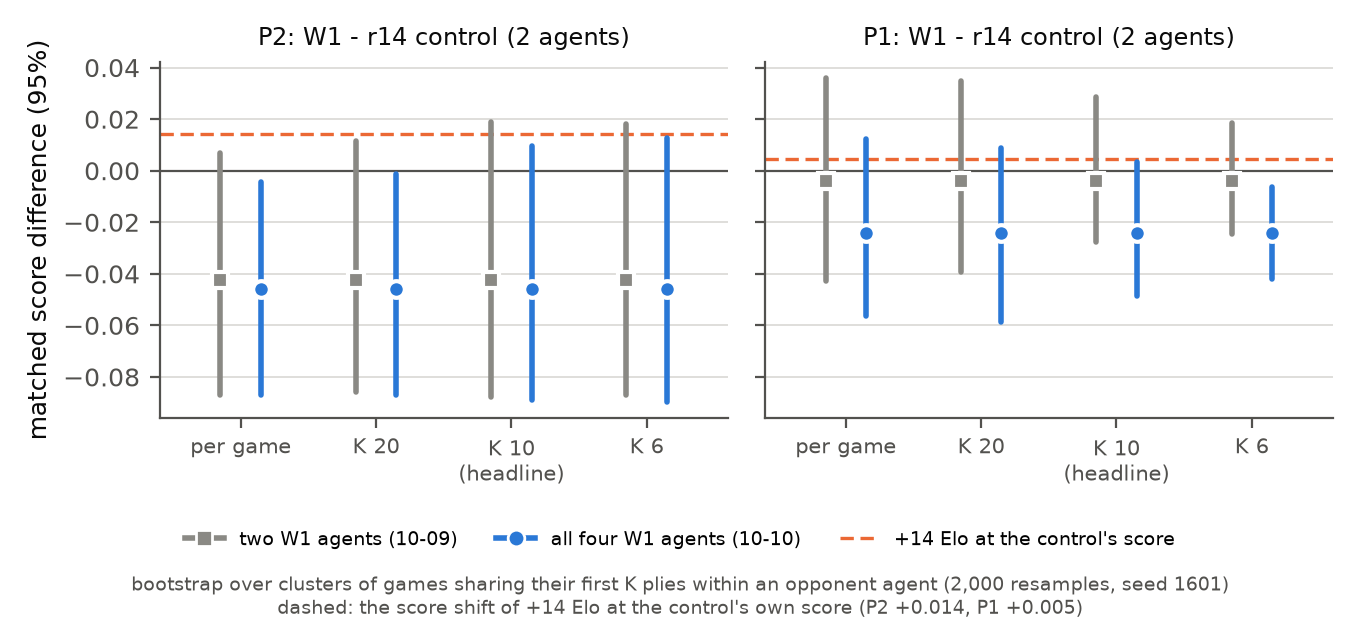
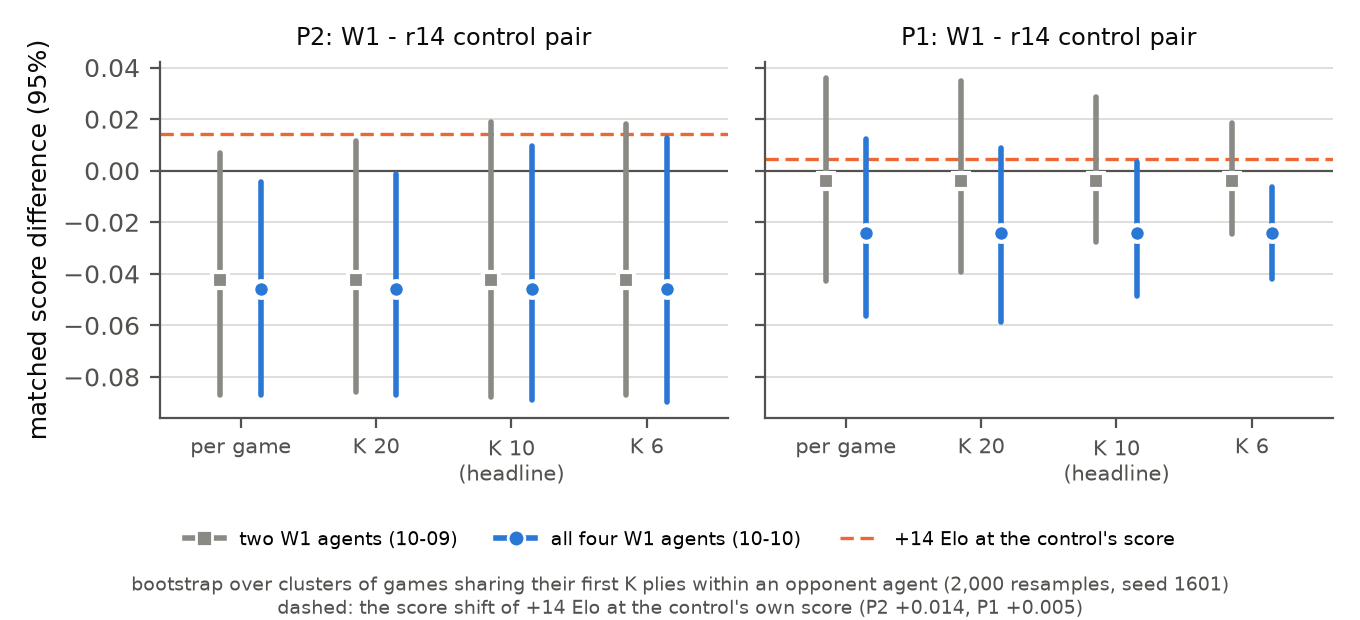
Correct the round 16 report
- Ship section, runtime B, limitations and Next: in the past tense. At
  ship time the packer refused an empty book and cg-native-check stopped
  at book=FAILED; this branch then merged runtime B (c122723), made the
  empty book the supported no-book configuration (22fae39, 9724033) and
  documented the Dell route (02249b8). The committed launcher is the
  77,297-unit rebuild, not the live dd33df97 byte for byte. The ship-route
  limitation and the "merge runtime B" Next item are dropped.
- Ladder drift: the W1 W1 ctl ctl W1 W1 order brackets the control, so a
  linear drift largely cancels; W1's mean placement time is about 35
  minutes later than the control's.
- The opponent pattern is described, not claimed: no heterogeneity test,
  control cells of 3-9 games.
- Table 5: its bounds are cluster_w1.py's recorded run, which is not
  reproducible run to run (opponents from a set under string-hash
  randomization); 13 fixed-hash-seed reruns give the ranges, all P2 upper
  ends below +0.014. The deterministic rerun's P1 lower end is -0.048.
- B16's upper end is about +5; C3 by subtraction against FINDINGS A18's
  roughly +9; throughput is for 20 ms games (T3 about 312 games/min);
  tools/sprt_cluster.py is untracked.
- Paths: body paths relative to r16/ (../ROUND16_PLAN.md), Sources
  relative to datasets/nnue2/; the README and FINDINGS timestamps as
  recorded; the WIDEN2 scouts in Next and in the first-turn limitation.
[…]

Changed region(s): [[0.6176, 0.0306, 0.8956, 0.0919], [0.1853, 0.0306, 0.4632, 0.0919]]

diff --git a/documentation/reports/round16/REPORT.md b/documentation/reports/round16/REPORT.md
@@ -2,13 +2,16 @@
 
 > **About this report.** It was written for the repository on 2026-10-10 from the round's records. Those records,
 > including nets, game files, logs, plans and scripts, live in the local experiment archive `datasets/nnue2/`, which
-> is git-ignored and not part of this repository. Paths below are relative to that archive's `r16/` directory unless
-> they say otherwise. The figures in [`fig/`](fig/) were drawn with matplotlib from the raw result files: the
-> tests' `summary.json`, `results/losses.jsonl` and the CodinGame ladder replays.
+> is git-ignored and not part of this repository. Paths in the body are relative to that archive's `r16/` directory
+> unless they say otherwise, so the round's draft plan is `../ROUND16_PLAN.md`. The Sources section gives its paths
+> relative to `datasets/nnue2/` itself. The figures in [`fig/`](fig/) were drawn with matplotlib by
+> `report/make_figs_v2.py` from the raw result files: the tests' `summary.json`, `results/losses.jsonl` and the
+> CodinGame ladder replays.
 
 **Status (2026-10-10, PDT): final.** Round 16 ran from 10:45 on 2026-10-08 (the first B16 training run) to the
-four-agent ladder reading at 01:40 on 2026-10-10. The widened net W1 (`r16_x128_l2400_s1601_rs`) is live on
-CodinGame without an opening book.
+four-agent ladder reading early on 2026-10-10: the last agent placed at 01:32, and FINDINGS A19 was updated by
+01:40. Read-only scouts for a still wider encoder ran alongside, from 00:48 to 01:55 (section 6). The widened net W1
+(`r16_x128_l2400_s1601_rs`) is live on CodinGame without an opening book.
 
 ## Abstract
 
@@ -50,7 +53,8 @@ widened net's speed gate, was re-read by a dated ruling after its measurements a
 - **The offline loss did not order these changes.** Contrasts with offline gains of +13 to +14 per mille played
   anywhere from −11 to +15 Elo ([Figure 2](fig/fig2_offline_vs_play.png)).
 - **The ladder cannot resolve the gain, and it does not show it.** Four W1 agents were compared with two r14 agents
-  placed between them in time (order W1 W1 r14 r14 W1 W1, so a linear drift of the field cancels).
+  placed between them in time (order W1 W1 r14 r14 W1 W1). This brackets the control in time, so a linear drift of
+  the field largely cancels.
   - W1's second-player (P2) score differed by −0.046, with a cluster-robust 95% interval of [−0.090, +0.010]. Its
     first-player (P1) score differed by −0.024 ([−0.047, +0.003]).
   - Both intervals hold 0 at the clustering chosen before the last two agents played, so W1 is not shown to be
@@ -97,7 +101,7 @@ direction: it ran 1.2% faster per node.
 
 **The rule this round follows.** The owner's rule for "nimble rounds" (10-05) is frozen data, one idea per short
 fine-tune, judgement by games and never by offline loss, and a one-line pre-registered rule per test. The draft plan
-`ROUND16_PLAN.md` listed ten candidate tests, R16-0 to R16-9. Four ran: R16-0 (continuation), R16-1 (EMA), R16-5
+`../ROUND16_PLAN.md` listed ten candidate tests, R16-0 to R16-9. Four ran: R16-0 (continuation), R16-1 (EMA), R16-5
 (macro context, on the owner's request of 10-08, "Pls see if u can get halfkp style to gain") and R16-2 (the widened
 encoder, on the owner's request of 10-09: "let's see if you can get the bigger encoder as a gainer. So train it, sprt
 it etc."). A featurization scout, analysis only, ran between R16-5 and R16-2. R16-3, R16-4 and R16-6 to R16-9 did not
@@ -147,7 +151,8 @@ end.
 
 ### 2.2 Runtime and engines
 
-The evaluator is the pattern-generator NNUE (see `documentation/nnue_training_and_implementation.md`).
+The evaluator is the pattern-generator NNUE (see
+[`documentation/nnue_training_and_implementation.md`](../../nnue_training_and_implementation.md)).
 
 **Where the encoder runs.** The encoder runs only at start-up, when it is baked into per-pattern tables. A wider
 encoder therefore lengthens the bake but leaves the per-node work unchanged.
@@ -160,10 +165,11 @@ first A/A smoke, which used the scaling study's r14 build on the older r13 runti
   and R16-5. They were compiled with g++ 11.4 using CodinGame's command line on the ThinkPad.
 - **`claude/macro-ctx-runtime` f357a24** (local only) is the macro-context port; it built the A2 and A3 engines.
   Context rows fold into the projection, and deciding moves re-context their boards incrementally.
-- **Runtime B, `claude/enc128-runtime` 84db7aa** (local only; commits a2672c9 and 84db7aa on adda324), lets the bake
-  read any encoder width from the net header. Against adda324 it changes six files: a Makefile target, the
-  regenerated `cg_input.cpp` (+286 UTF-16 units), the encoder-only hunks of `nnue_b64.hpp`, the widths line of r14's
-  header, a new `nnue_parity.cpp`, and the generic emitter. The search code and `eval_avx` are unchanged.
+- **Runtime B, `claude/enc128-runtime` 84db7aa** (commits a2672c9 and 84db7aa on adda324; a local branch while the
+  round ran, merged into this branch on 10-10 as c122723) lets the bake read any encoder width from the net header.
+  Against adda324 it changes six files: a Makefile target, the regenerated `cg_input.cpp` (+286 UTF-16 units), the
+  encoder-only hunks of `nnue_b64.hpp`, the widths line of r14's header, a new `nnue_parity.cpp`, and the generic
+  emitter. The search code and `eval_avx` are unchanged.
   - On runtime B, r14 rebuilds bit-identically: payload cde8c610, fingerprint 9446452298351114632, all selfchecks
     and bench 12 499aa1530ed872d3 / 30,721,792 on the desktop and the Dell.
   - Every R16-2 engine was built on runtime B: Dell binaries with g++ 13.3 and CodinGame's command line, desktop
@@ -198,8 +204,8 @@ lines remain.
 
 The CGC budgets are the calibrated C++ budgets (desktop 49 ms with 7 threads, Dell 62 ms with 3 threads) times 1.075,
 the native build's factor. They were not re-probed for `cg_nobook`. Both hosts' pairs feed one pooled result, so
-that result mixes two compute levels; per-host Elo is reported but not judged. Throughput was about 850-1,015 games
-per minute on the laptops and 1,240-1,285 on the desktop and the Dell.
+that result mixes two compute levels; per-host Elo is reported but not judged. At 20 ms, throughput was about 850-1,015
+games per minute on the laptops and 1,240-1,285 on the desktop and the Dell; T3 at CG compute ran at about 312.
 
 ## 3. Pre-registration and deviations
 
@@ -207,7 +213,7 @@ per minute on the laptops and 1,240-1,285 on the desktop and the Dell.
 
 | Plan | Covers | Written / frozen | What it fixes |
 | --- | --- | --- | --- |
-| `ROUND16_PLAN.md` §3 | R16-0, R16-1 | draft of 10-08, before both runs (the file was last edited at 12:01, after them, to add a status line) | one-line rules: B16 vs r14; EMA vs final weights, both GSPRT [0, +5] |
+| `../ROUND16_PLAN.md` §3 | R16-0, R16-1 | draft of 10-08, before both runs (the file was last edited at 12:01, after them, to add a status line) | one-line rules: B16 vs r14; EMA vs final weights, both GSPRT [0, +5] |
 | `MACRO_PLAN.md` | R16-5: A1, A2, A3, C3 | written 00:35 on 10-09, last modified 00:37, before any R16-5 training or game | attempts and rules; speed gate G2 (a mode with more than 10% zero-context overhead is not played); order rule L; build gates G1-G6; openings |
 | `WIDEN_PLAN.md` (sha256 591560bd…) | R16-2: W1 | 14:40-14:56 on 10-09 (file modified 14:55), before W1's launch at 14:58; frozen from T1's first game | gates G1-G6, smoke S0, T1 (decides), T3 (CGC veto), T2 (attribution, read by a fixed table), no fallback arm |
 
@@ -226,7 +232,7 @@ per minute on the laptops and 1,240-1,285 on the desktop and the Dell.
 | # | When | Plan | What happened | Bearing on inference |
 | --- | --- | --- | --- | --- |
 | 1 | 10-08 11:53 | R16-0 runs to a decision or the 30,000 cap (the cap counts as FAIL) | The owner stopped it at 21,028 games, LLR −1.09 | No decision. The interval [−1.0, +5.0] is reported as a stopped estimate |
-| 2 | 10-08 | ROUND16_PLAN: a fresh seed and a fresh opening range per test, and `tools/sprt_cluster.py` | Seed 1601 everywhere, to pair each arm with its control; per-test reshuffles with exclusion; the pooled referee driver | Contrasts are one-factor, but each arm is a single seed (σ_net about 0, upper about 2; E3). Openings are disjoint within the round only |
+| 2 | 10-08 | ROUND16_PLAN: a fresh seed and a fresh opening range per test, and `tools/sprt_cluster.py` (a pooled-SPRT script in the owner's main checkout, not tracked in this repository) | Seed 1601 everywhere, to pair each arm with its control; per-test reshuffles with exclusion; the pooled referee driver | Contrasts are one-factor, but each arm is a single seed (σ_net about 0, upper about 2; E3). Openings are disjoint within the round only |
 | 3 | 10-09 01:30-02:45 | MACRO_PLAN §2.4 runtime spec | Five implementation changes to the port (no refresh fallback, payload end check, exporter threshold, header comment, plain paste size) | None on the results: exact integer parity held (9 × 20,000 positions, 0 mismatches) |
 | 4 | 10-09 14:40 | ROUND16_PLAN R16-2: enc128 at 600M first, then 2.4G on a fail | One 2.4G arm with its matched control C3 | Logged in WIDEN_PLAN before any training |
 | 5 | 10-09 14:40 | ROUND16_PLAN: games on the laptops, engines from g++-11 | Desktop + Dell (owner: "Why only run on dell? You also have the desktop to use"); Dell engines from g++ 13.3, because the ThinkPad was away | Both engines in every pair come from the same compiler on the same host |
@@ -273,9 +279,9 @@ plays its final weights.
 ### 4.2 R16-0: the plain continuation B16 (FINDINGS L13)
 
 B16 against r14 read +1.98 ± 3.02 at 21,028 games, with LLR −1.09, when the owner stopped the test about 9 minutes
-before the cap. There is no decision under the rule. The interval rules out a loss of more than about 1 Elo and does
-not reach +5. The test was on course for the cap, which counts as a FAIL. This matches round 14's few-Elo gains from
-continuation (L13). r14 stayed the comparator.
+before the cap. There is no decision under the rule. The interval rules out a loss of more than about 1 Elo, and its
+upper end is about +5. The test was on course for the cap, which counts as a FAIL. This matches round 14's few-Elo
+gains from continuation (L13). r14 stayed the comparator.
 
 ### 4.3 R16-5: the macro context (FINDINGS A16, confirmed)
 
@@ -398,8 +404,9 @@ at a fixed 20 ms per move on the machines where the cost arises, so any real per
 - Per host: desktop +3.80 ± 5.00, Dell +7.42 ± 7.20.
 - Reading under the plan's fixed table (T1 H1, T2 H1): **"the width is the gainer"**. H1 here means better than 0
   and consistent with +5, not at least +5.
-- C3 against r14 was never played. Subtracting T2 from T1 puts C3 at about +10 over r14. That figure comes from two
-  stopped estimates, so it is not a test.
+- C3 against r14 was never played. Subtracting T2 from T1 (15.20 − 5.12) puts C3 at about +10 over r14. FINDINGS
+  A18 says roughly +9, which is what T3's +13.82 gives in T1's place (+8.7). Both figures rest on stopped estimates,
+  and the second also mixes two compute levels, so neither is a test.
 
 **Hygiene and the Dell stall.**
 
@@ -433,7 +440,8 @@ became −1.35, +15.20 and −11.38 Elo. The widening's +8.8‰ over C3 played +
 no P2 lines. The hard-coded 4 4 opener stays.
 
 **The toolchain route.** The repository's native route needs clang 23.1.2 and g++ 11.4 headers, and those existed
-only on the ThinkPad. On the Dell a user-space route was put together:
+only on the ThinkPad. On the Dell a user-space route was put together, which is now documented in section 3 of
+[`documentation/native_build.md`](../../native_build.md):
 
 - LLVM 23.1.2 and g++ 11.4 headers, under `~/cgbin`;
 - an ICU-70 forwarding shim, so that lld starts;
@@ -444,16 +452,21 @@ The route was validated first by rebuilding the live r14 launcher from adda324. 
 one (d6d902e2…), with identical selfchecks. With the wrapper, the binary needs at most GLIBC_2.34; without it, it
 needs GLIBC_2.38, which CodinGame cannot load.
 
-**No book.** Runtime B's real `play_book.hpp` is linked with a zero-entry data header (0 entries, 0 bytes,
-fingerprint 0). `pb_init` rejects that payload at its fingerprint check, so `pb_lookup` never returns a move. Two
-pieces of the repository's tooling cannot handle this case:
+**No book.** The shipped launcher links runtime B's real `play_book.hpp` with a zero-entry data header (0 entries,
+0 bytes, fingerprint 0). `pb_init` rejects that payload at its fingerprint check, so `pb_lookup` never returns a
+move. At ship time two pieces of the repository's tooling could not handle this case:
 
-- W1's packer refuses an empty text book.
-- The stock `make cg-native-check` stops at its second step, because the launcher's selfcheck prints
-  `book=FAILED entries=0` and exits 1.
+- W1's packer refused an empty text book.
+- The stock `make cg-native-check` stopped at its second step, because the launcher's selfcheck printed
+  `book=FAILED entries=0` and exited 1.
 
-The ship therefore used no-book copies of those checks. Making a no-book build pass the repository's own checks is
-part of merging runtime B.
+The ship therefore used no-book copies of those checks. On 10-10 this branch then merged runtime B (c122723) and made
+an empty text book the supported no-book configuration (22fae39). The packer now writes the no-book header for it,
+`pb_init` returns at once, and `cg_selfcheck` prints `book=none` and exits 0, so `make cg-native-check` can pass;
+9724033 lets `play_book_match` pass without a book. The launcher committed on this branch was rebuilt from the merged
+tree on the same Dell route: 77,297 UTF-16 units (`ef1a2631…`), with a 282,056-byte binary. It is not the live file
+byte for byte, because the compiler now drops the book decoder. At all eight selfcheck settings it gives the live
+launcher's node counts and checksums; only the book line differs.
 
 **The shipped files.**
 
@@ -485,8 +498,10 @@ problems on our side in 1,040 games (four agents).
 **Submissions.** Six agents placed in one night, and each played 260 games. W1 is the shipped bookless launcher
 (dd33df97…). The control is the r14 launcher that was live before W1, without a P2 book (d6d902e2…), resubmitted
 unchanged. The control's two agents sit between W1's two pairs in time, so a drift of the field that is linear in
-time cancels from the comparison. The ladder scores themselves are not compared, because one placement's score has an
-SD of about 0.36 (FINDINGS A19).
+time largely cancels from the comparison. It would cancel exactly only if both arms had the same mean time. Taking
+each placement's midpoint, from submission to placement, W1's four average about 23:34 and the control's two about
+22:59: W1's mean is about 35 minutes later, because of the hour's gap before the resubmission. The ladder scores
+themselves are not compared, because one placement's score has an SD of about 0.36 (FINDINGS A19).
 
 **Table 4. The ladder agents.** "Placed" is the time the placement finished.
 
@@ -518,11 +533,18 @@ agents on both sides:
   00:05-00:35 on 10-10: the gain is below the ladder's resolution, and W1 is not shown to be worse. W1 was then
   resubmitted twice.
 
-**Four W1 agents (10-10, 01:40).** With the restored pair, the comparison covers 14 opponent agents: 393 W1 games
-against 217 control games on P2. The 10-ply cluster definition is the one chosen at the 00:05 correction, before the
-restored agents had played.
+**Four W1 agents (10-10, after the last placement at 01:32).** With the restored pair, the comparison covers 14
+opponent agents: 393 W1 games against 217 control games on P2. The 10-ply cluster definition is the one chosen at
+the 00:05 correction, before the restored agents had played.
 
-**Table 5. W1 minus the control, four W1 agents against two control agents.** Bootstrap SEs over 2,000 resamples.
+**Table 5. W1 minus the control, four W1 agents against two control agents.** Bootstrap SEs over 2,000 resamples,
+as recorded on 10-10 (`README.md`, FINDINGS A19) by `report/cluster_w1.py` with Random(1601). That script takes its
+opponents from a Python set, so string-hash randomization changes which opponent each bootstrap draw goes to, and
+its bounds carry Monte Carlo noise of a few thousandths that does not reproduce run to run. In 13 reruns under fixed
+hash seeds (computed for this report, `report/cluster_hashseed/`), the P2 10-ply interval's lower end ran from −0.093
+to −0.087 and its upper end from +0.006 to +0.010, with SE 0.024-0.025; for P1 the ends ran from −0.049 to −0.046
+and from +0.001 to +0.004, with SE 0.012-0.013. The per-game SEs were 0.021-0.022 (P2) and 0.017-0.018 (P1). Every
+P2 upper end stayed below +0.014.
 
 | Seat | Difference | SE, each game its own cluster | SE, 10-ply clusters | 95%, 10-ply clusters |
 | --- | ---: | ---: | ---: | --- |
@@ -530,7 +552,8 @@ restored agents had played.
 | P1 | −0.024 | 0.018 | 0.013 | **[−0.047, +0.003]** |
 
 Both seats together read −0.037 (SE 0.028, from the per-opponent variances). The deterministic rerun for Figure 3
-gives SE 0.025 and [−0.089, +0.009] for P2, and SE 0.013 and [−0.049, +0.003] for P1.
+(`report/make_figs_v2.py`, which sorts the opponents and the clusters) gives per-game SEs of 0.022 (P2) and 0.017
+(P1). At 10-ply clusters it gives SE 0.025 and [−0.089, +0.009] for P2, and SE 0.013 and [−0.048, +0.003] for P1.
 
 **What the four agents show.**
 
@@ -541,9 +564,11 @@ gives SE 0.025 and [−0.089, +0.009] for P2, and SE 0.013 and [−0.049, +0.003
 - **Transfer to P2 not shown.** The P2 interval's upper end, +0.010, is now below +0.014, the shift that a +14 Elo
   gain would give at the control's P2 score of 0.225. P1's upper end, +0.003, is likewise just below its +0.005. So
   the self-play gain is not shown to carry over to W1's P2 games against this field.
-- **Opponent-specific.** The P2 difference is concentrated in a few opponents (Table 6). W1 scored worse than the
-  control against morph, RoboStac, karliso and Babebibobu, and better against MrSubZero, AllanB, Fancheng, Daporan and
-  Apostolique. Several of these cells hold fewer than ten control games.
+- **Concentrated in a few opponents.** Most of the P2 difference comes from a few opponents (Table 6). W1 scored
+  worse than the control against morph, RoboStac, karliso and Babebibobu, and better against MrSubZero, AllanB,
+  Fancheng, Daporan and Apostolique. No heterogeneity test was run, and several control cells are small (morph 9
+  games, Fancheng 5, Angecide 3, YurkovAS 3). So this describes where the difference sits; it does not show that the
+  effect differs by opponent.
 - **Hygiene.** W1 had 0 problems on our side in 1,040 games. The control had 2 timeouts of its own in 520.
 
 **Table 6. P2 results per opponent agent, four W1 agents against the control.** Mean result (games).
@@ -575,9 +600,9 @@ FINDINGS X1 already recorded that self-play gains of +9 to +20 Elo do not show o
 **Figure 3.** W1's matched score difference from the r14 control pair, per seat, with bootstrap 95% intervals at four
 cluster definitions. Grey squares use the first two W1 agents (the 10-09 reading), blue circles all four. K 10 is
 the headline definition. The intervals were recomputed here from the replays with a fixed resampling order (seed
-1601). The dashed line is the shift that a +14 Elo gain would produce at the control's own score. For P1 the
-intervals narrow as the clusters coarsen, which shared openings alone would not do, so the P1 cluster intervals are
-less trustworthy than the P2 ones; only the coarsest P1 interval (K 6) excludes 0.
+1601; `report/make_figs_v2.py`). The dashed line is the shift that a +14 Elo gain would produce at the control's own
+score. For P1 the intervals narrow as the clusters coarsen, which shared openings alone would not do, so the P1
+cluster intervals are less trustworthy than the P2 ones; only the coarsest P1 interval (K 6) excludes 0.
 
 **The reading.** The ladder cannot resolve W1's self-play gain. The difference is below the ladder's resolution, and
 W1 is not shown to be worse. With four agents the ladder also does not show the gain transferring to the second
@@ -605,12 +630,12 @@ strength. W1 is the live build.
   offline mode, never played.
 - **The ladder test is weak.** It has four W1 agents and two control agents in one night, and line diversity that
   differs between the arms for reasons not explained. Its verdict depends on the cluster definition: the per-game P2
-  interval excludes 0, the 10-ply one does not. Its power for the expected effect is about 14%.
-- **The ship route is outside the repository.** The ship toolchain is a user-space route on the Dell, validated by one
-  byte-identical rebuild, not the repository's documented route. The no-book configuration does not yet pass the
-  stock checks.
+  interval excludes 0, the 10-ply one does not. Its bootstrap bounds move by a few thousandths between reruns. Its
+  power for the expected effect is about 14%.
 - **Less first-turn margin.** The first turn has less margin than r14's: about 415 ms on the Dell, projected to
-  550-600 ms on CodinGame.
+  550-600 ms on CodinGame. A fast-bake prototype from the WIDEN2 scouts (`README.md`, 10-10 00:48-01:55) cuts W1's
+  Dell first turn from 417 to 222 ms (median of 24 cold spawns on CPU 3) with byte-identical tables, but it has not
+  been through the full G3 set and is not shipped.
 
 ## 6. Conclusions
 
@@ -623,23 +648,31 @@ strength. W1 is the live build.
    Elo.
 4. **The ladder cannot certify Elo changes in the teens.** With four W1 agents against two control agents, W1 is not
    shown to be worse, but its P2 interval ends below the expected +0.014, so the gain's transfer to the second
-   player's ladder games is not shown, and the difference is opponent-specific. The self-play tests are the
-   evidence. A lower-noise transfer check, if one is wanted, would be position-level (W1 against r14 moves on
-   positions from our ladder games, judged by deep search) or games against a non-sibling engine.
+   player's ladder games is not shown. The difference looks concentrated in a few opponents, though no
+   heterogeneity test was run. The self-play tests are the evidence. A lower-noise transfer check, if one is wanted,
+   would be position-level (W1 against r14 moves on positions from our ladder games, judged by deep search) or games
+   against a non-sibling engine.
 5. **Next.** Open items:
    - the planned search-constant SPSA (ProbCut's constants are tuned to the net's eval scale) on W1;
-   - merging runtime B with a supported no-book configuration;
+   - an encoder wider than 128. Read-only scouts on 10-10 (00:48-01:55) sized enc160 to enc256, and the draft plan
+     `WIDEN2_PLAN.md` followed. It is not approved, and no net has been trained or played for it (the scouts' only
+     GPU work was seven short timing runs). It recommends enc192 with W1 as the matched control, a GSPRT of [0, +3],
+     and two runtime changes: a fast bake and a raw-byte native payload. The fast-bake prototype alone cuts W1's
+     Dell first turn from 417 to 222 ms with byte-identical tables;
    - the plan's untested ideas, if wanted: e2b share, wider head, output buckets, λ jitter, 300M length.
 
 ## Sources
 
-The paths are in the local experiment archive `datasets/nnue2/`, which is not in this repository.
+The paths in this section are relative to the local experiment archive `datasets/nnue2/`, which is not in this
+repository.
 
 - **Round log and plans:**
-  - `r16/README.md`, every dated entry from 2026-10-08 10:45 to the four-agent ladder entry of 2026-10-10 01:40;
+  - `r16/README.md`, every dated entry from 2026-10-08 10:45 to the 2026-10-10 00:05-00:35 entry, whose last bullets
+    record the four-agent ladder result, and the 00:48-01:55 entry on the WIDEN2 scouts;
   - `ROUND16_PLAN.md`;
   - `r16/MACRO_PLAN.md`;
   - `r16/WIDEN_PLAN.md`;
+  - `r16/WIDEN2_PLAN.md` (a draft, not approved);
   - `r16/feat_scratch/FEATURIZATION_SCOUT.md`.
 - **Games:** `r16/gsprt/{aa_smoke, r16_1_ema, r16_0_b16, r16_5b_mcj, r16_5c_mcj_l2400, aa2_smoke, r16_2t1_x128_r14,
   r16_2t3_x128_cgc, r16_2t2_x128_c3}/` (`summary.json`, `records_*.jsonl`, `hosts/`); `r16/openings/`.
@@ -654,11 +687,15 @@ The paths are in the local experiment archive `datasets/nnue2/`, which is not in
   - `cg/ladder/prep/r15/ana_w1nobook_matched.out`, `ana_w1nobook_vs_ctl.out` (two W1 agents) and
     `ana_w1x4_vs_ctl.out` (four);
   - the watcher logs and health checks `cg/ladder/prep/r15/{watch, check}_{w1nobook, ctlW1, w1nobookR}.*`;
-  - the replays under `cg/ladder/prep/games/`.
-  The matched-score and cluster-bootstrap scripts (`matched_w1c.py`, `cluster_w1.py`) and the figure script were
-  kept with the session's working files, not in the archive.
-- **Cross-round evidence:** `FINDINGS.md` entries A16, A17, A18, A19 (as updated at 01:40 on 10-10), L13 and H13,
-  with A14, E3, E6, E8, N8, O15 and X1 for context.
+  - the replays under `cg/ladder/prep/games/`;
+  - the scripts, copied into the archive on 10-10 from the session's working files: `r16/report/matched_w1.py`,
+    `matched_w1b.py` and `matched_w1c.py` (the matched scores; they wrote the three `.out` files above, in that
+    order) and `cluster_w1.py` (the cluster bootstrap of Table 5 and of the 10-09 reading), with its 13
+    fixed-hash-seed reruns in `r16/report/cluster_hashseed/`.
+- **Figures and totals:** `r16/report/make_figs_v2.py`, which draws `fig/` and writes `r16/report/totals_v2.json`
+  (the game totals, the training minutes and rows/s, and the deterministic ladder rerun).
+- **Cross-round evidence:** `FINDINGS.md` entries A16, A17, A18, A19 (its four-agent update, labelled 10-10 01:32
+  in the entry and 01:40 in the changelog), L13 and H13, with A14, E3, E6, E8, N8, O15 and X1 for context.
 - **Related reports in this repository:** [round 14](../round14/REPORT.md) and [the scaling study](../scaling_study/REPORT.md).
 
 ## Appendix A. W1's ship of record
@@ -666,7 +703,7 @@ The paths are in the local experiment archive `datasets/nnue2/`, which is not in
 | Item | Value |
 | --- | --- |
 | Net | `r16_x128_l2400_s1601_rs` (.pt sha256 8a0f7398…; unscaled d14b4f35…), b 1.078737 |
-| Runtime | `claude/enc128-runtime` 84db7aa (on adda324); archive of 137 files |
+| Runtime | `claude/enc128-runtime` 84db7aa (on adda324; merged into this branch as c122723); archive of 137 files |
 | Header | `nnue_b64_net.hpp` sha256 e29d7218…; payload of 42,682 U15 characters; widths A 64 / L1 16 / L2 32 / E 32 / ENC 128-128 |
 | Determinism | fingerprint 3846873435862646193; Zobrist 3a74072d5bcdfc91; bench 12 = 635 searches, 29,208,628 nodes, hash c12bfc8e73c521ca; 16 table hashes in build.json |
 | Launcher / paste | `cg_input_native_w1_nobook.py` dd33df97… (82,112 units) / `cg_input_paste_w1_nobook.cpp` a893a029… (81,943 units) |
